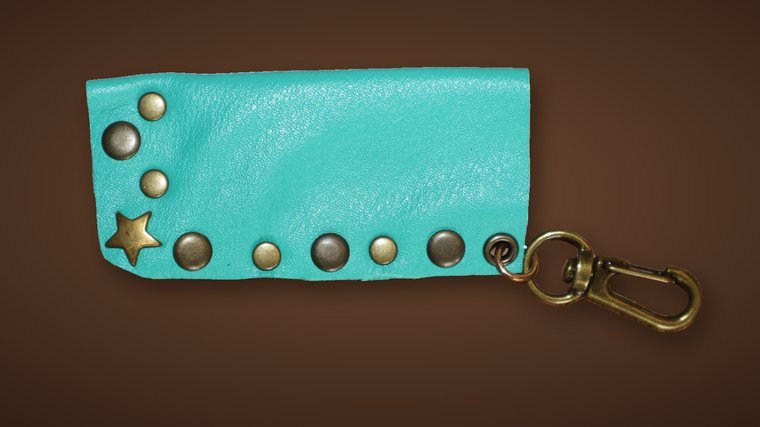
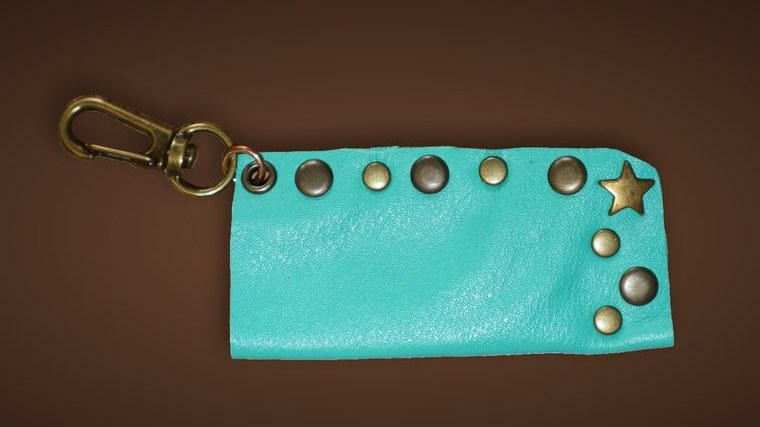
Fotos del inicio del estuche y portafuego dadas vuelta, textos de las tarjetas a medida

diff --git a/js/datos.js b/js/datos.js
@@ -23,20 +23,20 @@ window.DT = {
   categorias: [
     { id: 'cintos', name: 'Cintos', href: 'tienda.html?c=cintos', foto: 'stock/44', pos: '50% 55%', desde: 1000,
       subs: [{ id: 'decorativos', name: 'Decorativos' }, { id: 'funcionales', name: 'Funcionales' }],
-      custom: { href: 'arma.html?p=cinto', label: 'Armá tu cinto', txt: 'Elegís el tipo, los cueros, la hebilla y la unión.' } },
+      custom: { href: 'arma.html?p=cinto', label: 'Armá tu cinto', txt: 'Elegís el tipo, los cueros, la hebilla, la unión y los flecos.' } },
     { id: 'tarjeteros', name: 'Tarjeteros', href: 'tienda.html?c=tarjeteros', foto: 'stock/5', desde: 650,
-      custom: { href: 'arma.html?p=tarjetero', label: 'Armá tu tarjetero', txt: 'Elegís el cuero, el detalle y si lleva tachas.' } },
+      custom: { href: 'arma.html?p=tarjetero', label: 'Armá tu tarjetero', txt: 'Tres compartimientos, el detalle en otro cuero y la unión.' } },
     { id: 'porta-lentes', name: 'Estuches de lentes', href: 'tienda.html?c=porta-lentes', foto: 'stock/50', pos: '50% 40%', desde: 550,
-      custom: { href: 'arma.html?p=porta-lentes', label: 'Armá tu estuche de lentes', txt: 'Con o sin tapa, en el cuero que elijas.' } },
+      custom: { href: 'arma.html?p=porta-lentes', label: 'Armá tu estuche de lentes', txt: 'Con o sin tapa, en uno o dos cueros, cosido o con tachas.' } },
     { id: 'portafuegos', name: 'Portafuegos', href: 'tienda.html?c=portafuegos', foto: 'stock/338', portada: 'stock/338', desde: 150,
-      custom: { href: 'arma.html?p=portafuego', label: 'Armá tu portafuego', txt: 'Chico o grande, en el cuero que elijas.' } },
+      custom: { href: 'arma.html?p=portafuego', label: 'Armá tu portafuego', txt: 'Chico o grande, con decoración y flecos si querés.' } },
     { id: 'llaveros', name: 'Llaveros', href: 'tienda.html?c=llaveros', foto: 'stock/352', desde: 300,
-      custom: { href: 'arma.html?p=llavero', label: 'Armá tu llavero', txt: 'En el cuero que elijas.' } },
+      custom: { href: 'arma.html?p=llavero', label: 'Armá tu llavero', txt: 'Estrella, corazón, luna o varias estrellas, en el cuero que elijas.' } },
     { id: 'pulseras', name: 'Pulseras', href: 'tienda.html?c=pulseras', foto: 'pulsera', pos: '50% 60%', desde: 250,
       subs: [{ id: 'anchas', name: 'Anchas' }, { id: 'finas', name: 'Finas' }],
-      custom: { href: 'arma.html?p=pulsera', label: 'Armá tu pulsera', txt: 'En tres anchos y en el cuero que elijas.' } },
+      custom: { href: 'arma.html?p=pulsera', label: 'Armá tu pulsera', txt: 'Lisa o trenzada, con tachas o estrellas.' } },
     { id: 'collares', name: 'Collares', href: 'tienda.html?c=collares', foto: 'collar', desde: 350,
-      custom: { href: 'arma.html?p=collar', label: 'Armá tu collar', txt: 'Fino o más grueso, con o sin decoración.' } },
+      custom: { href: 'arma.html?p=collar', label: 'Armá tu collar', txt: 'Fino o grueso, con tiento trenzado y decoración.' } },
   ],
 
   /* ---------- Cintos (Armá el tuyo) ---------- */

diff --git a/carrito.html b/carrito.html
@@ -40,13 +40,13 @@
     </section>
   </main>
 
-  <script src="js/datos.js?v=33"></script>
+  <script src="js/datos.js?v=36"></script>
   <script src="js/stock.js?v=32"></script>
   <script src="https://cdnjs.cloudflare.com/ajax/libs/gsap/3.12.5/gsap.min.js" defer></script>
   <script src="https://cdnjs.cloudflare.com/ajax/libs/gsap/3.12.5/ScrollTrigger.min.js" defer></script>
   <script src="https://unpkg.com/lenis@1.1.13/dist/lenis.min.js" defer></script>
   <script src="js/nube.js?v=1" defer></script>
   <script src="js/sitio.js?v=34" defer></script>
-  <script src="js/tienda.js?v=35" defer></script>
+  <script src="js/tienda.js?v=37" defer></script>
 </body>
 </html>

diff --git a/producto.html b/producto.html
@@ -28,12 +28,12 @@
     <div data-product></div>
   </main>
 
-  <script src="js/datos.js?v=33"></script>
+  <script src="js/datos.js?v=36"></script>
   <script src="js/stock.js?v=32"></script>
   <script src="https://cdnjs.cloudflare.com/ajax/libs/gsap/3.12.5/gsap.min.js" defer></script>
   <script src="https://cdnjs.cloudflare.com/ajax/libs/gsap/3.12.5/ScrollTrigger.min.js" defer></script>
   <script src="https://unpkg.com/lenis@1.1.13/dist/lenis.min.js" defer></script>
   <script src="js/sitio.js?v=34" defer></script>
-  <script src="js/tienda.js?v=34" defer></script>
+  <script src="js/tienda.js?v=37" defer></script>
 </body>
 </html>

diff --git a/tienda.html b/tienda.html
@@ -40,12 +40,12 @@
     </section>
   </main>
 
-  <script src="js/datos.js?v=33"></script>
+  <script src="js/datos.js?v=36"></script>
   <script src="js/stock.js?v=32"></script>
   <script src="https://cdnjs.cloudflare.com/ajax/libs/gsap/3.12.5/gsap.min.js" defer></script>
   <script src="https://cdnjs.cloudflare.com/ajax/libs/gsap/3.12.5/ScrollTrigger.min.js" defer></script>
   <script src="https://unpkg.com/lenis@1.1.13/dist/lenis.min.js" defer></script>
   <script src="js/sitio.js?v=34" defer></script>
-  <script src="js/tienda.js?v=34" defer></script>
+  <script src="js/tienda.js?v=37" defer></script>
 </body>
 </html>

diff --git a/js/tienda.js b/js/tienda.js
@@ -206,7 +206,7 @@
       const f = fotos[c.id] || c.foto;
       const main = i === 0;
       return `<a class="mto__card${main ? ' mto__card--main' : ''} mto__card--${c.id}" href="${c.custom.href}" data-fade>
-        <span class="mto__img"><img src="img/${f}${main ? '' : '-sm'}.jpg" alt="${esc(c.name)} hechos a mano" loading="lazy"></span>
+        <span class="mto__img"><img src="img/${f}${main ? '' : '-sm'}.jpg?v=3" alt="${esc(c.name)} hechos a mano" loading="lazy"></span>
         <span class="mto__info">
           <span class="mto__tag">A medida</span>
           <b class="mto__name">${esc(c.custom.label)}</b>

diff --git a/index.html b/index.html
@@ -69,12 +69,12 @@
 
   </main>
 
-  <script src="js/datos.js?v=33"></script>
+  <script src="js/datos.js?v=36"></script>
   <script src="js/stock.js?v=32"></script>
   <script src="https://cdnjs.cloudflare.com/ajax/libs/gsap/3.12.5/gsap.min.js" defer></script>
   <script src="https://cdnjs.cloudflare.com/ajax/libs/gsap/3.12.5/ScrollTrigger.min.js" defer></script>
   <script src="https://unpkg.com/lenis@1.1.13/dist/lenis.min.js" defer></script>
   <script src="js/sitio.js?v=34" defer></script>
-  <script src="js/tienda.js?v=34" defer></script>
+  <script src="js/tienda.js?v=37" defer></script>
 </body>
 </html>

diff --git a/404.html b/404.html
@@ -27,7 +27,7 @@
     </section>
   </main>
 
-  <script src="js/datos.js?v=33"></script>
+  <script src="js/datos.js?v=36"></script>
   <script src="js/stock.js?v=32"></script>
   <script src="https://cdnjs.cloudflare.com/ajax/libs/gsap/3.12.5/gsap.min.js" defer></script>
   <script src="https://cdnjs.cloudflare.com/ajax/libs/gsap/3.12.5/ScrollTrigger.min.js" defer></script>

diff --git a/arma.html b/arma.html
@@ -66,7 +66,7 @@
     </section>
   </main>
 
-  <script src="js/datos.js?v=35"></script>
+  <script src="js/datos.js?v=36"></script>
   <script src="js/stock.js?v=32"></script>
   <script src="https://cdnjs.cloudflare.com/ajax/libs/gsap/3.12.5/gsap.min.js" defer></script>
   <script src="https://cdnjs.cloudflare.com/ajax/libs/gsap/3.12.5/ScrollTrigger.min.js" defer></script>

diff --git a/como-comprar.html b/como-comprar.html
@@ -39,7 +39,7 @@
     </section>
   </main>
 
-  <script src="js/datos.js?v=33"></script>
+  <script src="js/datos.js?v=36"></script>
   <script src="js/stock.js?v=32"></script>
   <script src="https://cdnjs.cloudflare.com/ajax/libs/gsap/3.12.5/gsap.min.js" defer></script>
   <script src="https://cdnjs.cloudflare.com/ajax/libs/gsap/3.12.5/ScrollTrigger.min.js" defer></script>

diff --git a/herramientas/girar-inicio.py b/herramientas/girar-inicio.py
@@ -1,0 +1,11 @@
+"""Da vuelta (180°) las fotos del inicio del estuche de lentes y del portafuego, que estaban al revés.
+Toma las originales de herramientas/originales-inicio/ y deja el resultado en img/.
+Uso: .venv-fotos/Scripts/python.exe herramientas/girar-inicio.py"""
+import pathlib
+from PIL import Image
+
+ROOT = pathlib.Path(__file__).resolve().parent.parent
+for nombre in ['inicio-portalentes-sm.jpg', 'inicio-portafuego-sm.jpg']:
+    im = Image.open(ROOT / 'herramientas' / 'originales-inicio' / nombre).convert('RGB')
+    im.rotate(180).save(ROOT / 'img' / nombre, quality=88)
+print('ok')
